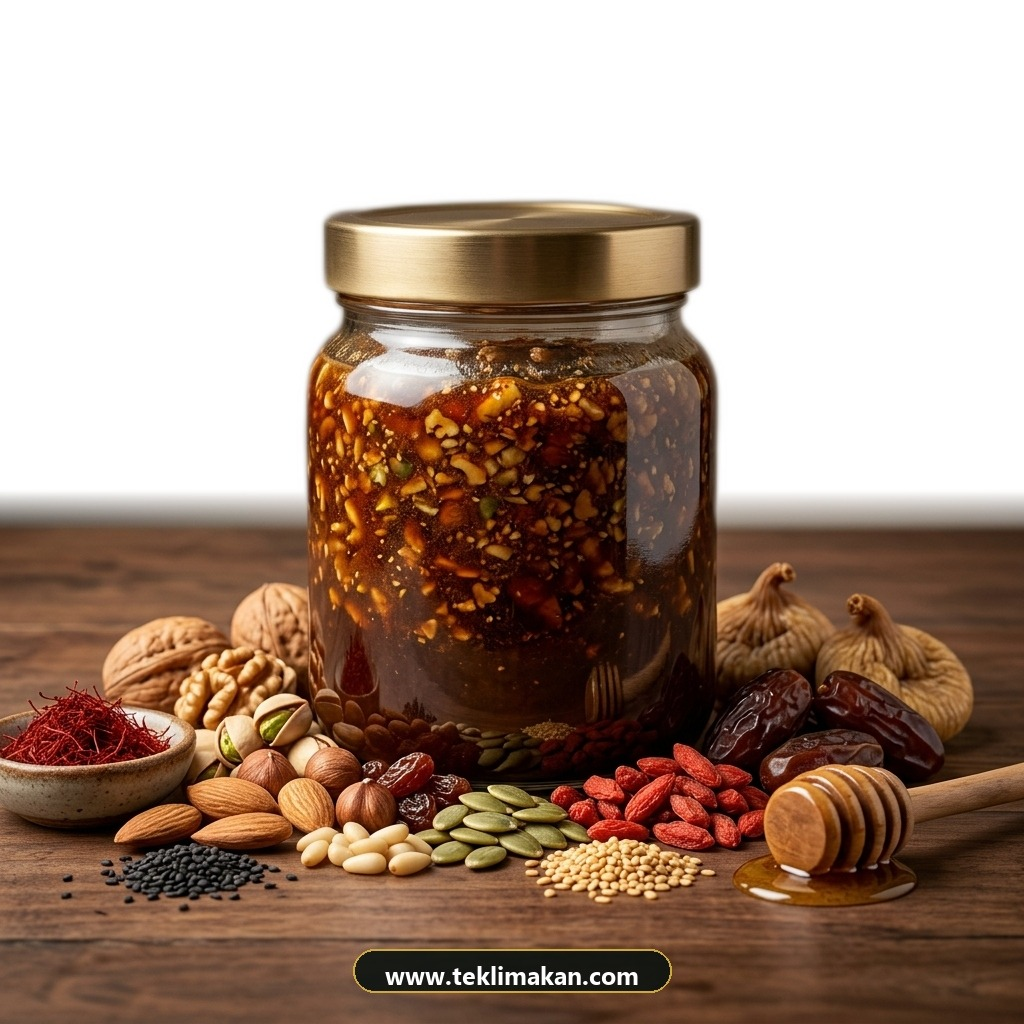
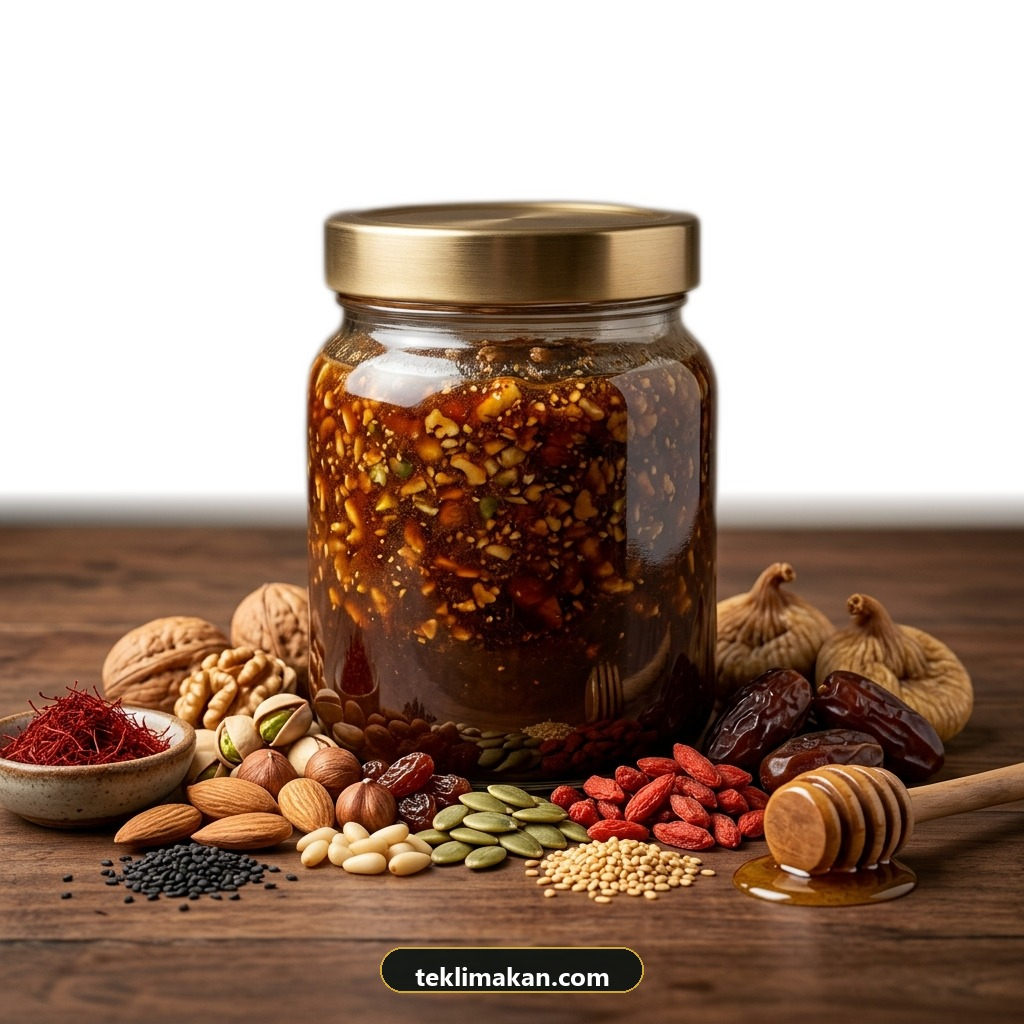
chore(branding): update domain badge to teklimakan.com on card and website footer

Changed region(s): [[0.3438, 0.9062, 0.6562, 0.9688]]

diff --git a/js/store.js b/js/store.js
@@ -8478,7 +8478,7 @@ class StoreManager {
           `📦 تاۋارلار:\n${itemsSummary}\n\n` +
           `ئامبىرىمىز ماللىرىڭىزنى ئەستايىدىل قاچىلاپ، كارگوغا تاپشۇرۇشقا تەييارلىماقتا.\n\n` +
           `تەكلىماكان سودا سۇپىسى\n` +
-          `🌐 www.teklimakan.com`;
+          `🌐 teklimakan.com`;
 
         this.sendWhatsAppCustomerMessage(customerData.phone, waMsg);
       } catch (waErr) {
@@ -8945,7 +8945,7 @@ class StoreManager {
           `📦 تاۋارلار:\n${itemsSummary}\n\n` +
           `ئامبىرىمىز مېلىڭىزنى رەتلەپ قاچىلاۋاتىدۇ. پوسۇلكا كارگوغا چىقىرىلغاندا سىزگە ئىز قوغلاش نومۇرى ئەۋەتىلىدۇ.\n\n` +
           `تەكلىماكاننى تاللىغىنىڭىزغا رەھمەت!\n` +
-          `🌐 www.teklimakan.com`;
+          `🌐 teklimakan.com`;
 
         this.sendWhatsAppCustomerMessage(newOrder.customer.phone, waMsg);
       } catch (waErr) {

diff --git a/index.html b/index.html
@@ -2395,7 +2395,7 @@
             <img src="images/logo_circle.png?v=20261008" class="footer-brand-logo" alt="تەكلىماكان لوگوسى">
             <div class="footer-brand-title-wrap">
               <h3 class="footer-store-name brand-store-name" id="footerStoreName">تەكلىماكان سودا تورى</h3>
-              <span class="footer-domain-badge number-latin">www.teklimakan.com</span>
+              <span class="footer-domain-badge number-latin">teklimakan.com</span>
             </div>
           </div>
           <p id="footerBrandDesc" class="footer-brand-desc">تەكلىماكان تور سودا سۇپىسى سىزگە ئۆلچەملىك ئۇيغۇرچە يېزىق، ئەڭ يۇقىرى سۈپەتلىك تاللانغان تاۋارلار، ئەرزان باھا ۋە كۆپ تىللىق زامانىۋىي تور سودا سۇپىسى بىلەن تەمىنلەيدۇ.</p>
